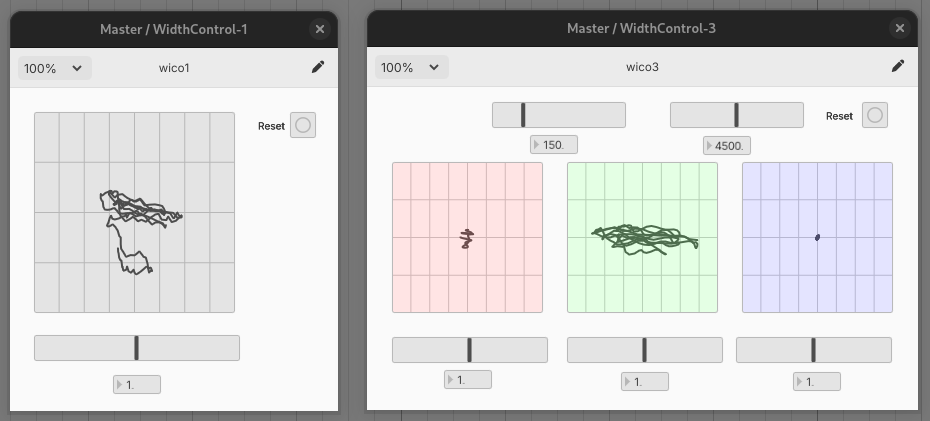
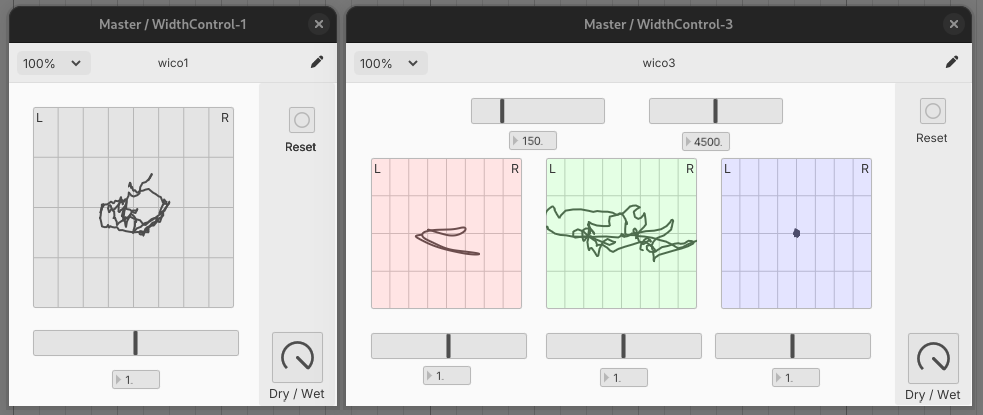
Add dry-run control.
Handy for quick A/B check.

diff --git a/README.md b/README.md
@@ -15,4 +15,4 @@ TODO:
 * add correlation meters (e.g. using `mavg` of the side channel)
 * figure out if we can overlay the scopes with additional graphics
 * change width params from 0.0 ... 2.0 to 0 % ... 200 %
-* add dry/wet control
+
